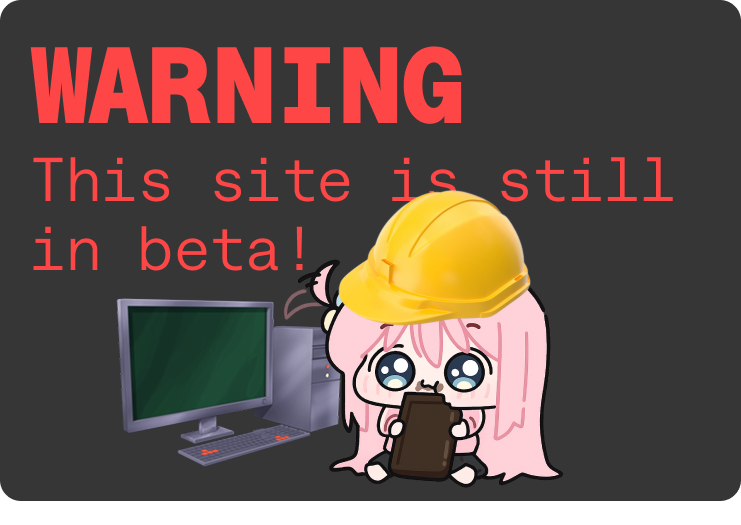
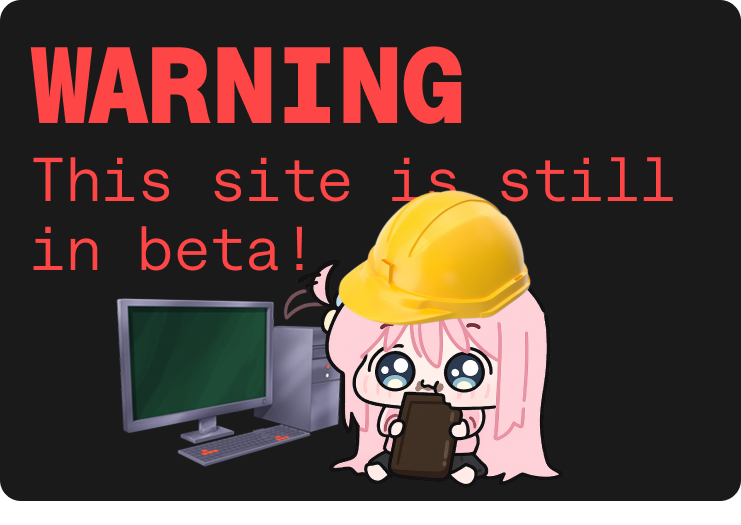
Changed the style

diff --git a/src/lib/components/root/desktop_sidebar.svelte b/src/lib/components/root/desktop_sidebar.svelte
@@ -1,118 +1,140 @@
 <script>
-	import { onMount } from 'svelte';
 	import Globe from '../svgs/globe.svelte';
+	import GlobeSelected from '../svgs/globe_selected.svelte';
 	import House from '../svgs/house.svelte';
+	import HouseSelected from '../svgs/house_selected.svelte';
 	import LocationPin from '../svgs/location_pin.svelte';
 	import Money from '../svgs/money.svelte';
+	import MoneySelected from '../svgs/money_selected.svelte';
 	import Newspaper from '../svgs/newspaper.svelte';
+	import NewspaperSelected from '../svgs/newspaper_selected.svelte';
 	import Plane from '../svgs/plane.svelte';
+	import PlaneSelected from '../svgs/plane_selected.svelte';
 	import QuestPin from '../svgs/quest_pin.svelte';
+	import QuestPinSelected from '../svgs/quest_pin_selected.svelte';
 	import Statistics from '../svgs/statistics.svelte';
+	import StatisticsSelected from '../svgs/statistics_selected.svelte';
 	import Trophy from '../svgs/trophy.svelte';
+	import TrophySelected from '../svgs/trophy_selected.svelte';
 
 	let { page } = $props();
 </script>
 
-<div class="relative flex h-full w-[15%] flex-col px-2 text-lg">
+<div class="relative flex h-full w-[15%] flex-col px-2">
 	<!-- Location -->
-	<div class="flex h-[6%] w-full items-center gap-x-2">
-		<LocationPin />
-		Mongolia
+	<div class="flex h-[6%] w-full items-center text-[#a8a8a8]">
+		<div class="flex items-center gap-x-2 rounded-md border-[1px] border-[#222222] px-3">
+			<LocationPin />
+			Mongolia
+		</div>
 	</div>
 	<!-- Menu -->
 	<div class="flex flex-col gap-y-1">
 		{#if page.url.pathname === '/'}
 			<!-- Home -->
-			<a href="/" class="flex items-center gap-x-2 rounded-md bg-[#434343] px-1">
-				<House />
+			<a href="/" class="flex items-center gap-x-2 rounded-md bg-[#1A1A1A] px-1">
+				<HouseSelected />
 				Home
 			</a>
 		{:else}
 			<!-- Home -->
-			<a href="/" class="flex items-center gap-x-2 px-1">
+			<a href="/" class="flex items-center gap-x-2 px-1 text-[#A8A8A8]">
 				<House />
 				Home
 			</a>
 		{/if}
+
+		<h2 class="font-rat-thin mt-4 w-[80%] border-b-[1px] border-[#222222]/50 text-[#A8A8A8]">
+			open source data
+		</h2>
+
 		{#if page.url.pathname === '/statistics'}
 			<!-- Statistics -->
-			<a href="/statistics" class="flex items-center gap-x-2 rounded-md bg-[#434343] px-1">
-				<Statistics />
+			<a href="/statistics" class="flex items-center gap-x-2 rounded-md bg-[#1A1A1A] px-1">
+				<StatisticsSelected />
 				Statistics
 			</a>
 		{:else}
 			<!-- Statistics -->
-			<a href="/statistics" class="flex items-center gap-x-2 px-1">
+			<a href="/statistics" class="flex items-center gap-x-2 px-1 text-[#A8A8A8]">
 				<Statistics />
 				Statistics
-			</a>
-		{/if}
-
-		{#if page.url.pathname === '/news-feed'}
-			<!-- News Feed -->
-			<a href="/news-feed" class="flex items-center gap-x-2 rounded-md bg-[#434343] px-1">
-				<Newspaper />
-				News Feed
-			</a>
-		{:else}
-			<!-- News Feed -->
-			<a href="/news-feed" class="flex items-center gap-x-2 px-1">
-				<Newspaper />
-				News Feed
 			</a>
 		{/if}
 
 		{#if page.url.pathname === '/leaderboard'}
 			<!-- Leaderboard -->
-			<a href="/leaderboard" class="flex items-center gap-x-2 rounded-md bg-[#434343] px-1">
-				<Trophy />
+			<a href="/leaderboard" class="flex items-center gap-x-2 rounded-md bg-[#1A1A1A] px-1">
+				<TrophySelected />
 				Leaderboard
 			</a>
 		{:else}
 			<!-- Leaderboard -->
-			<a href="/leaderboard" class="flex items-center gap-x-2 px-1">
+			<a href="/leaderboard" class="flex items-center gap-x-2 px-1 text-[#A8A8A8]">
 				<Trophy />
 				Leaderboard
-			</a>
-		{/if}
-
-		{#if page.url.pathname === '/global-feed'}
-			<!-- Global Feed -->
-			<a href="/global-feed" class="flex items-center gap-x-2 rounded-md bg-[#434343] px-1">
-				<Globe />
-				Global Feed
-			</a>
-		{:else}
-			<!-- Global Feed -->
-			<a href="/global-feed" class="flex items-center gap-x-2 px-1">
-				<Globe />
-				Global Feed
 			</a>
 		{/if}
 
 		{#if page.url.pathname === '/exports'}
 			<!-- Exports -->
-			<a href="/exports" class="flex items-center gap-x-2 rounded-md bg-[#434343] px-1">
-				<Money />
+			<a href="/exports" class="flex items-center gap-x-2 rounded-md bg-[#1A1A1A] px-1">
+				<MoneySelected />
 				Exports
 			</a>
 		{:else}
 			<!-- Exports -->
-			<a href="/exports" class="flex items-center gap-x-2 px-1">
+			<a href="/exports" class="flex items-center gap-x-2 px-1 text-[#A8A8A8]">
 				<Money />
 				Exports
 			</a>
 		{/if}
 
+		<h2 class="font-rat-thin mt-4 w-[80%] border-b-[1px] border-[#222222]/50 text-[#A8A8A8]">
+			source of news
+		</h2>
+
+		{#if page.url.pathname === '/news-feed'}
+			<!-- News Feed -->
+			<a href="/news-feed" class="flex items-center gap-x-2 rounded-md bg-[#1A1A1A] px-1">
+				<NewspaperSelected />
+				News Feed
+			</a>
+		{:else}
+			<!-- News Feed -->
+			<a href="/news-feed" class="flex items-center gap-x-2 px-1 text-[#A8A8A8]">
+				<Newspaper />
+				News Feed
+			</a>
+		{/if}
+
+		{#if page.url.pathname === '/global-feed'}
+			<!-- Global Feed -->
+			<a href="/global-feed" class="flex items-center gap-x-2 rounded-md bg-[#1A1A1A] px-1">
+				<GlobeSelected />
+				Global Feed
+			</a>
+		{:else}
+			<!-- Global Feed -->
+			<a href="/global-feed" class="flex items-center gap-x-2 px-1 text-[#A8A8A8]">
+				<Globe />
+				Global Feed
+			</a>
+		{/if}
+
+		<h2 class="font-rat-thin mt-4 w-[80%] border-b-[1px] border-[#222222]/50 text-[#A8A8A8]">
+			local tourism
+		</h2>
+
 		{#if page.url.pathname === '/tourism'}
 			<!-- Tourism -->
-			<a href="/tourism" class="flex items-center gap-x-2 rounded-md bg-[#434343] px-1">
-				<Plane />
+			<a href="/tourism" class="flex items-center gap-x-2 rounded-md bg-[#1A1A1A] px-1">
+				<PlaneSelected />
 				Tourism
 			</a>
 		{:else}
 			<!-- Tourism -->
-			<a href="/tourism" class="flex items-center gap-x-2 px-1">
+			<a href="/tourism" class="flex items-center gap-x-2 px-1 text-[#A8A8A8]">
 				<Plane />
 				Tourism
 			</a>
@@ -120,19 +142,19 @@
 
 		{#if page.url.pathname === '/guides'}
 			<!-- Guides -->
-			<a href="/guides" class="flex items-center gap-x-2 rounded-md bg-[#434343] px-1">
-				<QuestPin />
+			<a href="/guides" class="flex items-center gap-x-2 rounded-md bg-[#1A1A1A] px-1">
+				<QuestPinSelected />
 				Guides
 			</a>
 		{:else}
 			<!-- Guides -->
-			<a href="/guides" class="flex items-center gap-x-2 px-1">
+			<a href="/guides" class="flex items-center gap-x-2 px-1 text-[#A8A8A8]">
 				<QuestPin />
 				Guides
 			</a>
 		{/if}
 	</div>
 
-	<img src="./warning.png" class="mt-4" alt="warning" />
+	<img src="./warning.png" class="mt-8" alt="warning" />
 	<h1 class="absolute bottom-2 left-2">opencharter.</h1>
 </div>

diff --git a/src/lib/components/svgs/globe_selected.svelte b/src/lib/components/svgs/globe_selected.svelte
@@ -1,7 +1,7 @@
 <svg width="17" height="17" viewBox="0 0 22 22" fill="none" xmlns="http://www.w3.org/2000/svg">
 	<path
 		d="M11.8335 1.03391V1.66493C11.8335 2.03599 11.9979 2.38705 12.2833 2.62479L13.4697 3.61353C13.9607 4.02347 14.064 4.73559 13.7096 5.26884L13.1431 6.11983C12.8346 6.58222 12.3808 6.92857 11.8535 7.10413L11.6946 7.15745C11.5154 7.21739 11.3524 7.31784 11.2182 7.451C11.0841 7.58416 10.9825 7.74645 10.9212 7.92527C10.86 8.10408 10.8408 8.29461 10.8651 8.48205C10.8894 8.6695 10.9566 8.84881 11.0614 9.00607C11.4713 9.62265 11.2492 10.4581 10.5871 10.7891L7.66785 12.2489L8.13773 13.4254C8.2325 13.6644 8.23739 13.9296 8.15151 14.1719C8.06562 14.4142 7.89479 14.6171 7.6707 14.743C7.4466 14.8689 7.18445 14.9092 6.93288 14.8565C6.68131 14.8038 6.45738 14.6616 6.30264 14.4564L5.54839 13.4499C5.42056 13.2795 5.25132 13.1446 5.05672 13.0581C4.86212 12.9715 4.64864 12.9361 4.43652 12.9553C4.22441 12.9744 4.0207 13.0474 3.84475 13.1674C3.66879 13.2875 3.52642 13.4504 3.43115 13.6409L2.66912 15.1652L1.9893 15.3351M11.8335 1.03391C10.0773 0.886527 8.31339 1.20714 6.72047 1.96116C5.12756 2.71518 3.76224 3.87692 2.76287 5.32865C1.7635 6.78038 1.1656 8.47052 1.02975 10.2278C0.893901 11.9851 1.22493 13.747 1.9893 15.3351M11.8335 1.03391C13.5749 1.17917 15.2478 1.7795 16.6855 2.77295C18.1232 3.7664 19.2754 5.11938 20.0273 6.69701C20.7792 8.27464 21.1044 10.0218 20.9707 11.7644C20.8369 13.5069 20.2488 15.1839 19.2649 16.6283L19.0683 16.0406C18.9023 15.5429 18.5839 15.1101 18.1583 14.8034C17.7326 14.4967 17.2213 14.3318 16.6967 14.332H15.9991L15.6392 13.972C15.4584 13.7909 15.2371 13.6554 14.9937 13.5766C14.7502 13.4979 14.4915 13.4781 14.2389 13.519C13.9863 13.5599 13.7471 13.6603 13.5409 13.8119C13.3347 13.9635 13.1675 14.1619 13.0531 14.3908L13.0132 14.4719C12.9041 14.6904 12.7508 14.8838 12.563 15.0398C12.3752 15.1959 12.157 15.3112 11.9223 15.3785L10.8226 15.6918C10.2117 15.8662 9.82952 16.4716 9.93394 17.0993L10.015 17.5859C10.1039 18.1125 10.5593 18.498 11.0925 18.498C12.0323 18.498 12.8676 19.1001 13.1642 19.9922L13.4031 20.7066M1.9893 15.3351C2.98505 17.4057 4.66347 19.0701 6.74219 20.0484C8.82092 21.0267 11.1731 21.2591 13.4031 20.7066M13.4031 20.7066C15.7913 20.114 17.8776 18.6626 19.2638 16.6294M15.1659 7.66627C15.1659 8.66168 14.7294 9.55488 14.0373 10.1659"
-		stroke="#a8a8a8"
+		stroke="#F1F1F1"
 		stroke-width="1.5"
 		stroke-linecap="round"
 		stroke-linejoin="round"

diff --git a/src/lib/components/svgs/money_selected.svelte b/src/lib/components/svgs/money_selected.svelte
@@ -1,7 +1,7 @@
 <svg width="17" height="17" viewBox="0 0 26 22" fill="none" xmlns="http://www.w3.org/2000/svg">
 	<path
 		d="M1 18.3863C7.5669 18.381 14.1052 19.2431 20.4425 20.9497C21.3372 21.1913 22.2308 20.5325 22.2308 19.6125V18.3863M2.84615 1V1.91507C2.84615 2.15776 2.7489 2.39051 2.57579 2.56212C2.40268 2.73373 2.16789 2.83014 1.92308 2.83014H1M1 2.83014V2.3726C1 1.61493 1.62031 1 2.38462 1H23.1538M1 2.83014V13.811M23.1538 1V1.91507C23.1538 2.42019 23.5674 2.83014 24.0769 2.83014H25M23.1538 1H23.6154C24.3797 1 25 1.61493 25 2.3726V14.2685C25 15.0262 24.3797 15.6411 23.6154 15.6411H23.1538M1 13.811V14.2685C1 14.6325 1.14588 14.9817 1.40554 15.2391C1.66521 15.4965 2.01739 15.6411 2.38462 15.6411H2.84615M1 13.811H1.92308C2.16789 13.811 2.40268 13.9074 2.57579 14.079C2.7489 14.2506 2.84615 14.4833 2.84615 14.726V15.6411M23.1538 15.6411V14.726C23.1538 14.4833 23.2511 14.2506 23.4242 14.079C23.5973 13.9074 23.8321 13.811 24.0769 13.811H25M23.1538 15.6411H2.84615M16.6923 8.32055C16.6923 9.29132 16.3033 10.2223 15.6109 10.9088C14.9184 11.5952 13.9793 11.9808 13 11.9808C12.0207 11.9808 11.0816 11.5952 10.3891 10.9088C9.6967 10.2223 9.30769 9.29132 9.30769 8.32055C9.30769 7.34979 9.6967 6.41878 10.3891 5.73235C11.0816 5.04591 12.0207 4.66028 13 4.66028C13.9793 4.66028 14.9184 5.04591 15.6109 5.73235C16.3033 6.41878 16.6923 7.34979 16.6923 8.32055ZM20.3846 8.32055H20.3945V8.33031H20.3846V8.32055ZM5.61538 8.32055H5.62523V8.33031H5.61538V8.32055Z"
-		stroke="#a8a8a8"
+		stroke="#F1F1F1"
 		stroke-width="1.5"
 		stroke-linecap="round"
 		stroke-linejoin="round"

diff --git a/src/lib/components/svgs/trophy_selected.svelte b/src/lib/components/svgs/trophy_selected.svelte
@@ -1,7 +1,7 @@
 <svg width="17" height="17" viewBox="0 0 22 22" fill="none" xmlns="http://www.w3.org/2000/svg">
 	<path
 		d="M15.6555 17.9231H6.34451M15.6555 17.9231C16.4786 17.9231 17.2681 18.2473 17.8501 18.8243C18.4322 19.4013 18.7592 20.184 18.7592 21H3.24084C3.24084 20.184 3.56784 19.4013 4.14989 18.8243C4.73194 18.2473 5.52136 17.9231 6.34451 17.9231M15.6555 17.9231V14.4615C15.6555 13.8246 15.1351 13.3077 14.4916 13.3077H13.5905M6.34451 17.9231V14.4615C6.34451 13.8246 6.86592 13.3077 7.50838 13.3077H8.41051M13.5905 13.3077H8.41051M13.5905 13.3077C13.0094 12.3128 12.6622 11.2007 12.5746 10.0544M8.41051 13.3077C8.99123 12.3127 9.33813 11.2007 9.42541 10.0544M12.5746 10.0544C13.6174 9.81578 14.5896 9.34196 15.4175 8.66974M12.5746 10.0544C11.5385 10.2913 10.4615 10.2913 9.42541 10.0544M9.42541 10.0544C8.38299 9.81563 7.41014 9.34182 6.58245 8.66974M4.01676 3.03692C3.00083 3.18359 1.99524 3.36205 1 3.57026C1.2307 4.9126 1.90376 6.14126 2.91387 7.06398C3.92397 7.98669 5.21413 8.5514 6.58245 8.66974M4.01676 3.03692V3.30769C4.01676 5.46974 5.01614 7.4 6.58245 8.66974M4.01676 3.03692V1.48308C6.29899 1.1641 8.63087 1 11 1C13.3702 1 15.702 1.1641 17.9832 1.48205V3.03692M17.9832 3.03692V3.30769C17.9832 5.46974 16.9839 7.4 15.4175 8.66974M17.9832 3.03692C18.9943 3.18277 20.0004 3.36064 21 3.57026C20.7693 4.91245 20.0964 6.14098 19.0865 7.06368C18.0766 7.98638 16.7857 8.55118 15.4175 8.66974"
-		stroke="#a8a8a8"
+		stroke="#F1F1F1"
 		stroke-width="1.5"
 		stroke-linecap="round"
 		stroke-linejoin="round"

diff --git a/src/lib/components/svgs/plane_selected.svelte b/src/lib/components/svgs/plane_selected.svelte
@@ -1,7 +1,7 @@
 <svg width="17" height="17" viewBox="0 0 22 22" fill="none" xmlns="http://www.w3.org/2000/svg">
 	<path
 		d="M9.42105 2.61099V7.62379C9.42105 7.84598 9.30884 8.05249 9.12421 8.17024L1.29684 13.1616C1.11218 13.2794 1 13.4859 1 13.708V14.6735C1 15.0928 1.38614 15.4004 1.78476 15.2987L8.6363 13.5511C9.03495 13.4494 9.42105 13.757 9.42105 14.1763V17.3544C9.42105 17.5403 9.34242 17.7171 9.20537 17.8394L6.93138 19.8695C6.44895 20.3003 6.82956 21.1056 7.46025 20.9885L10.8871 20.3528C10.9617 20.3389 11.0383 20.3389 11.1129 20.3528L14.5398 20.9885C15.1704 21.1056 15.5511 20.3003 15.0686 19.8695L12.7946 17.8394C12.6576 17.7171 12.5789 17.5403 12.5789 17.3544V14.1763C12.5789 13.757 12.9651 13.4494 13.3637 13.5511L20.2153 15.2987C20.6139 15.4004 21 15.0928 21 14.6735V13.708C21 13.4859 20.8878 13.2794 20.7032 13.1616L12.8758 8.17024C12.6912 8.05249 12.5789 7.84598 12.5789 7.62379V2.61099C12.5789 1.72126 11.872 1 11 1C10.128 1 9.42105 1.72126 9.42105 2.61099Z"
-		stroke="#a8a8a8"
+		stroke="#F1F1F1"
 		stroke-width="1.5"
 		stroke-linecap="round"
 		stroke-linejoin="round"

diff --git a/src/lib/components/root/desktop_content_root.svelte b/src/lib/components/root/desktop_content_root.svelte
@@ -1,0 +1,30 @@
+<script>
+	import House from '../svgs/house.svelte';
+	import TriangleRight from '../svgs/triangle_right.svelte';
+</script>
+
+<div class="flex h-full grow flex-col text-[#a8a8a8]">
+	<div class="z-0 flex h-[6%] w-full items-end pl-3">
+		<!-- Mock Tab -->
+		<div
+			class="relative flex h-[70%] w-[220px] items-center justify-between rounded-t-md border-[1px] border-[#404040]/25 px-2"
+		>
+			<div class="flex items-center gap-x-2">
+				<House />
+				<h1>Home</h1>
+			</div>
+			<TriangleRight />
+		</div>
+	</div>
+	<div class="z-1 flex w-full grow flex-col rounded-tl-md border-[1px] border-[#404040]/25">
+		<div class="flex h-[10%] w-full items-center border-b-[1px] border-[#404040]/25 px-1">
+			<h1 class="font-rat-thin px-5 text-2xl">Dashboard</h1>
+		</div>
+		<div class="w-full grow p-5">
+			<div
+				class="h-[250px] w-[400px] rounded-lg border-[1px] border-[#404040]/25 bg-[#0D0D0D]"
+			></div>
+		</div>
+	</div>
+</div>
+<!-- Background color is 0a0a0a -->

diff --git a/src/lib/components/svgs/quest_pin_selected.svelte b/src/lib/components/svgs/quest_pin_selected.svelte
@@ -1,12 +1,12 @@
 <svg width="17" height="17" viewBox="0 0 21 22" fill="none" xmlns="http://www.w3.org/2000/svg">
 	<path
 		d="M1 1.63243C1 1.28315 1.28315 1 1.63243 1H19.3403C19.6896 1 19.9728 1.28315 19.9728 1.63243V16.1782C19.9728 16.5275 19.6896 16.8106 19.3403 16.8106H14.9758C14.8014 16.8106 14.6348 16.8826 14.5152 17.0096L10.9469 20.801C10.6972 21.0663 10.2756 21.0663 10.0259 20.801L6.45749 17.0096C6.33797 16.8826 6.17133 16.8106 5.99696 16.8106H1.63243C1.28315 16.8106 1 16.5275 1 16.1782V1.63243Z"
-		stroke="#a8a8a8"
+		stroke="#f1f1f1"
 		stroke-width="1.5"
 	/>
 	<path
 		d="M10.4864 5.21616L11.9888 7.92986L14.7025 9.43232L11.9888 10.9348L10.4864 13.6485L8.98395 10.9348L6.27021 9.43232L8.98395 7.92986L10.4864 5.21616Z"
-		stroke="#a8a8a8"
+		stroke="#f1f1f1"
 		stroke-width="1.5"
 		stroke-linecap="round"
 		stroke-linejoin="round"

diff --git a/src/lib/components/svgs/newspaper_selected.svelte b/src/lib/components/svgs/newspaper_selected.svelte
@@ -1,7 +1,7 @@
 <svg width="17" height="17" viewBox="0 0 24 22" fill="none" xmlns="http://www.w3.org/2000/svg">
 	<path
 		d="M12 5.54545H13.8333M12 9.18182H13.8333M4.66667 12.8182H13.8333M4.66667 16.4545H13.8333M17.5 5.54545H21.625C22.384 5.54545 23 6.15636 23 6.90909V18.2727C23 18.996 22.7103 19.6897 22.1945 20.2012C21.6788 20.7127 20.9793 21 20.25 21M17.5 5.54545V18.2727C17.5 18.996 17.7897 19.6897 18.3055 20.2012C18.8212 20.7127 19.5207 21 20.25 21M17.5 5.54545V2.36364C17.5 1.61091 16.884 1 16.125 1H2.375C1.616 1 1 1.61091 1 2.36364V18.2727C1 18.996 1.28973 19.6897 1.80546 20.2012C2.32118 20.7127 3.02065 21 3.75 21H20.25M4.66667 5.54545H8.33333V9.18182H4.66667V5.54545Z"
-		stroke="#a8a8a8"
+		stroke="#F1F1F1"
 		stroke-width="1.5"
 		stroke-linecap="round"
 		stroke-linejoin="round"

diff --git a/src/lib/components/svgs/statistics_selected.svelte b/src/lib/components/svgs/statistics_selected.svelte
@@ -1,7 +1,7 @@
 <svg width="17" height="17" viewBox="0 0 22 22" fill="none" xmlns="http://www.w3.org/2000/svg">
 	<path
 		d="M5.54545 13.7273V16.4545M9.18182 11V16.4545M12.8182 8.27273V16.4545M16.4545 5.54545V16.4545M3.72727 21H18.2727C18.996 21 19.6897 20.7127 20.2012 20.2012C20.7127 19.6897 21 18.996 21 18.2727V3.72727C21 3.00396 20.7127 2.31026 20.2012 1.7988C19.6897 1.28734 18.996 1 18.2727 1H3.72727C3.00396 1 2.31026 1.28734 1.7988 1.7988C1.28734 2.31026 1 3.00396 1 3.72727V18.2727C1 18.996 1.28734 19.6897 1.7988 20.2012C2.31026 20.7127 3.00396 21 3.72727 21Z"
-		stroke="#a8a8a8"
+		stroke="#F1F1F1"
 		stroke-width="1.5"
 		stroke-linecap="round"
 		stroke-linejoin="round"

diff --git a/src/lib/components/svgs/house_selected.svelte b/src/lib/components/svgs/house_selected.svelte
@@ -1,7 +1,7 @@
 <svg width="17" height="17" viewBox="0 0 23 22" fill="none" xmlns="http://www.w3.org/2000/svg">
 	<path
 		d="M1 11.1555L10.6428 1.36015C11.1166 0.879951 11.8834 0.879951 12.3562 1.36015L22 11.1555M3.42308 8.69433V19.7694C3.42308 20.4487 3.96585 21 4.63462 21H9.07692V15.6675C9.07692 14.9883 9.61969 14.437 10.2885 14.437H12.7115C13.3803 14.437 13.9231 14.9883 13.9231 15.6675V21H18.3654C19.0342 21 19.5769 20.4487 19.5769 19.7694V8.69433M7.46154 21H16.3462"
-		stroke="#A8A8A8"
+		stroke="#F1F1F1"
 		stroke-width="1.5"
 		stroke-linecap="round"
 		stroke-linejoin="round"

diff --git a/src/lib/components/svgs/location_pin_selected.svelte b/src/lib/components/svgs/location_pin_selected.svelte
@@ -1,12 +1,12 @@
 <svg width="17" height="17" viewBox="0 0 18 23" fill="none" xmlns="http://www.w3.org/2000/svg">
 	<path
 		d="M17 9C17 13.4183 9 21 9 21C9 21 1 13.4183 1 9C1 4.58172 4.58172 1 9 1C13.4183 1 17 4.58172 17 9Z"
-		stroke="#a8a8a8"
+		stroke="#F1F1F1"
 		stroke-width="1.5"
 	/>
 	<path
 		d="M9 10C9.5523 10 10 9.5523 10 9C10 8.44772 9.5523 8 9 8C8.4477 8 8 8.44772 8 9C8 9.5523 8.4477 10 9 10Z"
-		stroke="#a8a8a8"
+		stroke="#F1F1F1"
 		stroke-width="1.5"
 		stroke-linecap="round"
 		stroke-linejoin="round"

diff --git a/src/lib/components/svgs/triangle_right.svelte b/src/lib/components/svgs/triangle_right.svelte
@@ -1,0 +1,9 @@
+<svg width="13" height="13" viewBox="0 0 13 14" fill="none" xmlns="http://www.w3.org/2000/svg">
+	<path
+		d="M11.8123 6.68432C12.0626 6.82177 12.0626 7.17824 11.8123 7.31568L1.54106 12.9542C1.29819 13.0876 1 12.9136 1 12.6386V1.36144C1 1.0864 1.29819 0.912433 1.54106 1.04576L11.8123 6.68432Z"
+		stroke="#a8a8a8"
+		stroke-width="1.5"
+		stroke-linecap="round"
+		stroke-linejoin="round"
+	/>
+</svg>
